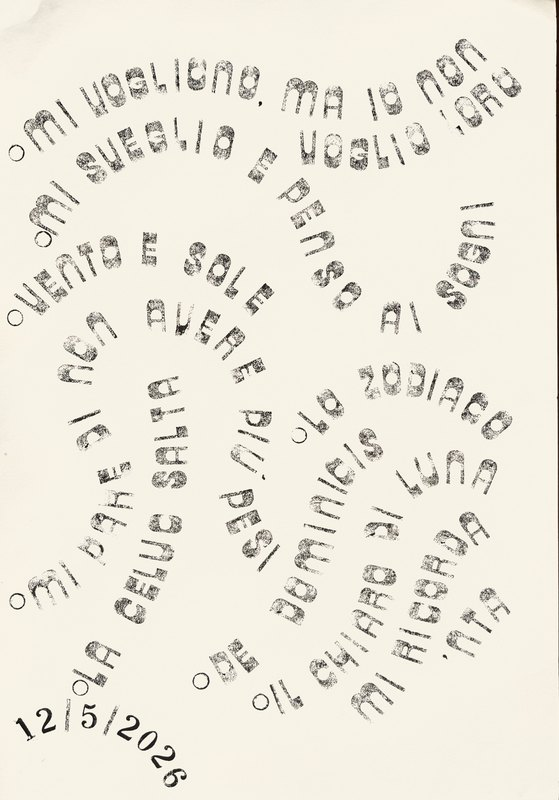
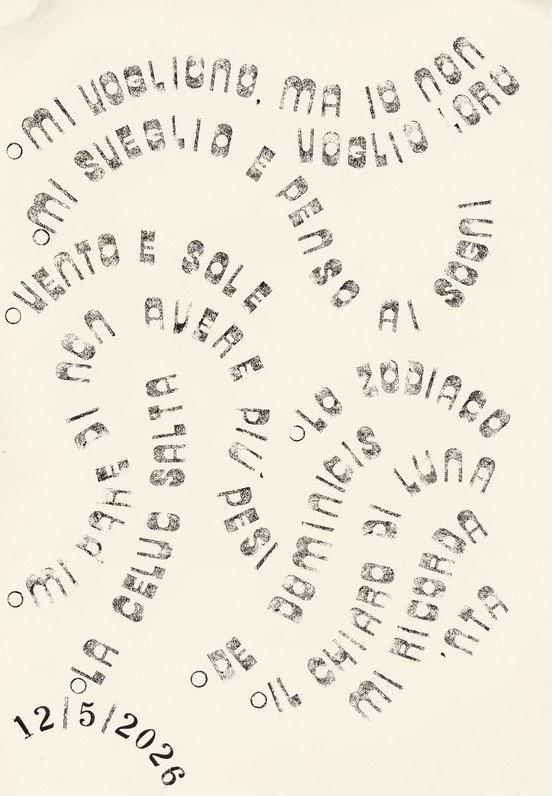
Re-crop bordo scuro residuo: Timbro 12/5/26 e 14/5/26

diff --git a/index.html b/index.html
@@ -783,11 +783,11 @@ section#timbri{ padding-top: clamp(160px, 18vw, 240px); }
     </figure>
 
     <figure class="work">
-      <div class="work-frame" style="--ratio: 142.74%;">
+      <div class="work-frame" style="--ratio: 143.34%;">
         <img src="foto_definitive/Timbro_2026-05-14.jpg"
              srcset="foto_definitive/thumbs/Timbro_2026-05-14.jpg 800w, foto_definitive/Timbro_2026-05-14.jpg 1800w"
              sizes="(max-width: 720px) 92vw, 720px"
-             width="1261" height="1800"
+             width="1253" height="1796"
              alt="14/5/26" loading="lazy" decoding="async" />
       </div>
       <figcaption class="work-caption"><span class="work-date">14/5/26</span></figcaption>
@@ -805,11 +805,11 @@ section#timbri{ padding-top: clamp(160px, 18vw, 240px); }
     </figure>
 
     <figure class="work">
-      <div class="work-frame" style="--ratio: 142.97%;">
+      <div class="work-frame" style="--ratio: 143.91%;">
         <img src="foto_definitive/Timbro_2026-05-12.jpg"
              srcset="foto_definitive/thumbs/Timbro_2026-05-12.jpg 800w, foto_definitive/Timbro_2026-05-12.jpg 1800w"
              sizes="(max-width: 720px) 92vw, 720px"
-             width="1259" height="1800"
+             width="1248" height="1796"
              alt="12/5/26" loading="lazy" decoding="async" />
       </div>
       <figcaption class="work-caption"><span class="work-date">12/5/26</span></figcaption>
